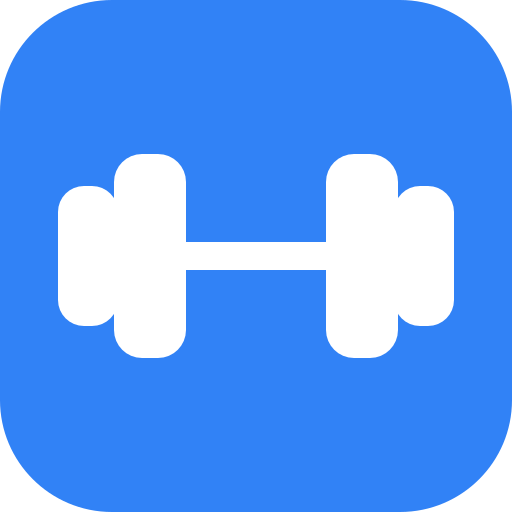
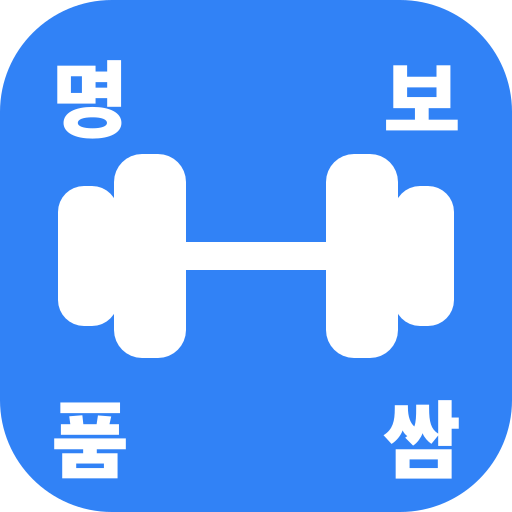
Updates

diff --git a/index.html b/index.html
@@ -5,9 +5,10 @@
     <meta name="viewport" content="width=device-width, initial-scale=1.0, viewport-fit=cover, user-scalable=no" />
     <meta name="apple-mobile-web-app-capable" content="yes" />
     <meta name="theme-color" content="#3182F6" />
-    <title>운동기록</title>
-    <script type="module" crossorigin src="./assets/index-B6FyPWnh.js"></script>
-    <link rel="stylesheet" crossorigin href="./assets/index-ChO1kA1L.css">
+    <link rel="apple-touch-icon" href="./icons/icon-192.png" />
+    <title>명품보쌈</title>
+    <script type="module" crossorigin src="./assets/index-BFiurwXG.js"></script>
+    <link rel="stylesheet" crossorigin href="./assets/index-Djyrl7zf.css">
   <link rel="manifest" href="./manifest.webmanifest"><script id="vite-plugin-pwa:register-sw" src="./registerSW.js"></script></head>
   <body>
     <div id="root"></div>

diff --git a/sw.js b/sw.js
@@ -1,1 +1,1 @@
-if(!self.define){let e,r={};const s=(s,i)=>(s=new URL(s+".js",i).href,r[s]||new Promise(r=>{if("document"in self){const e=document.createElement("script");e.src=s,e.onload=r,document.head.appendChild(e)}else e=s,importScripts(s),r()}).then(()=>{let e=r[s];if(!e)throw new Error(`Module ${s} didn’t register its module`);return e}));self.define=(i,c)=>{const b=e||("document"in self?document.currentScript.src:"")||location.href;if(r[b])return;let a={};const f=e=>s(e,b),l={module:{uri:b},exports:a,require:f};r[b]=Promise.all(i.map(e=>l[e]||f(e))).then(e=>(c(...e),a))}}define(["./workbox-9c191d2f"],function(e){"use strict";self.skipWaiting(),e.clientsClaim(),e.precacheAndRoute([{url:"registerSW.js",revision:"402b66900e731ca748771b6fc5e7a068"},{url:"index.html",revision:"99a0e421580b0783508b29d149a02116"},{url:"icons/icon-512.png",revision:"fac4b1879003a8aa3aba7f730ad1ecec"},{url:"icons/icon-192.png",revision:"1c4827fb2cbd17a41e1dff3903418b62"},{url:"exercises/upright-row.webp",revision:"ae95f07f77bef68fe0a6a91ed80f67e9"},{url:"exercises/triceps-pushdown.webp",revision:"6dc03028abbba176f6236be3484a633a"},{url:"exercises/triceps-dips.webp",revision:"6421dc4a0079bd78d1e854acd8e175af"},{url:"exercises/straight-arm-pulldown.webp",revision:"696e5fb97635552cd906f541301a26dc"},{url:"exercises/standing-calf-raise.webp",revision:"a544b79a6966480f9ec6f404e0909508"},{url:"exercises/squat.webp",revision:"9008b186f60c82240fd2c1757605ef27"},{url:"exercises/seated-leg-curl.webp",revision:"c6d4420603df84c438ea94a37ef440e6"},{url:"exercises/seated-cable-row.webp",revision:"42dd80276979bd1779d73f83175d5a29"},{url:"exercises/russian-twist.webp",revision:"558505736e4347ebfe5b2dcbe7efc01d"},{url:"exercises/romanian-deadlift.webp",revision:"30ac5e54049f56752875a04d6d799f34"},{url:"exercises/reverse-fly.webp",revision:"aea80558fe6384a0618ea98c8babf269"},{url:"exercises/pushup.webp",revision:"586faec9a055f011ed909a1587b9a648"},{url:"exercises/pullup.webp",revision:"eca5416cc28d377d030ef9f2a1f2a8c7"},{url:"exercises/preacher-curl.webp",revision:"610543566ea0a1fa4af26361ade31e82"},{url:"exercises/plank.webp",revision:"d03a64bfd8f760fa81e248bd27186e23"},{url:"exercises/pec-deck.webp",revision:"83f50b79fd467609bf045a2caaf5880f"},{url:"exercises/overhead-triceps-extension.webp",revision:"64ed36a4a3c8d80545d6245fecd0084d"},{url:"exercises/overhead-press.webp",revision:"abb8a08e4c2eebd66b3a92f89f1db0f6"},{url:"exercises/one-arm-dumbbell-row.webp",revision:"bd43f8314a5fb4b2e54ffac37ec828a5"},{url:"exercises/lying-triceps-extension.webp",revision:"bec04bdf14bad2b1e76bcc82fa504a26"},{url:"exercises/lying-leg-curl.webp",revision:"a6b7cb911eb17f2739d232204e47c521"},{url:"exercises/leg-press.webp",revision:"1c252f7f6b25786fe73ce3a5cc4ce6fd"},{url:"exercises/leg-extension.webp",revision:"0f9fbdeb561396e83fadb096fc3008d3"},{url:"exercises/lateral-raise.webp",revision:"31522414e276e9fb399afad8cd7549e6"},{url:"exercises/lat-pulldown.webp",revision:"ebb8454103102d7062b9994149e346ca"},{url:"exercises/kettlebell-swing.webp",revision:"faa7601542ac79fd757440cd828358e4"},{url:"exercises/incline-dumbbell-press.webp",revision:"38044009860aba37841330d1cc4187a5"},{url:"exercises/incline-bench-press.webp",revision:"8d9bd9435b0d9f98bbf4984284566fad"},{url:"exercises/hip-thrust.webp",revision:"3c6cf0622e6f240ea9214067f0c1e617"},{url:"exercises/hanging-leg-raise.webp",revision:"0a48bf428938c0982e4cd188ea0ddecf"},{url:"exercises/hammer-curl.webp",revision:"a21935c0b4a3b059a0427f7db7115255"},{url:"exercises/goblet-squat.webp",revision:"f339679e5afdb71427309d62297889f3"},{url:"exercises/front-squat.webp",revision:"005b1e0a07b9b3349d0f149eb02b1cde"},{url:"exercises/front-raise.webp",revision:"f6edbe3433bd8726c793e6ff41f8a4e6"},{url:"exercises/face-pull.webp",revision:"5a741e1ffca94283608f858c5489ccf3"},{url:"exercises/dumbbell-shoulder-press.webp",revision:"f23b206ff3ffd9510d00ede3d5e9bc66"},{url:"exercises/dumbbell-lunge.webp",revision:"89e7a4c77c9cf575a7459facac1ec3ac"},{url:"exercises/dumbbell-fly.webp",revision:"18245af38c1951b2d969f4187e35365e"},{url:"exercises/dumbbell-curl.webp",revision:"ccad921b62958c062acd7ed9279d6396"},{url:"exercises/dumbbell-bench-press.webp",revision:"3bd3fcedf57a22612ac6c84b1fb599a4"},{url:"exercises/deadlift.webp",revision:"b6120e27d943525991c2650731771af0"},{url:"exercises/crunch.webp",revision:"5e0afae1e7961aff0616387562181883"},{url:"exercises/concentration-curl.webp",revision:"19459b6706e9ab39ad6e72ca57aee01e"},{url:"exercises/close-grip-bench.webp",revision:"9b9a5af98a52160d9405e93abe862b22"},{url:"exercises/chinup.webp",revision:"c379cf0e4c7d3387d5b7831811d0d562"},{url:"exercises/chest-dips.webp",revision:"53e420a1b46e36cc2b270eb023d1d15c"},{url:"exercises/cable-crunch.webp",revision:"6e2d1f8edb2f990f200f5792ad03d0d0"},{url:"exercises/cable-crossover.webp",revision:"0ac148499ff6b890900d2c3e5d256218"},{url:"exercises/bench-press.webp",revision:"ce681f5e8b7799fbe8a7766a0effbdef"},{url:"exercises/barbell-shrug.webp",revision:"352c3c7ba4d0bf38047fa08477e1c686"},{url:"exercises/barbell-row.webp",revision:"95401a7ba9ff25e27e619b05ecc096fc"},{url:"exercises/barbell-lunge.webp",revision:"3d71788b56c7d3f198b2cc48b9097fe6"},{url:"exercises/barbell-curl.webp",revision:"f511cec8f09d3e4c9ed730965166a518"},{url:"exercises/arnold-press.webp",revision:"b84d85b9e80a2ab0b42d32719618ea84"},{url:"exercises/ab-rollout.webp",revision:"84ec537fa033e0e51b2236a8661f0084"},{url:"assets/index-ChO1kA1L.css",revision:null},{url:"assets/index-B6FyPWnh.js",revision:null},{url:"icons/icon-192.png",revision:"1c4827fb2cbd17a41e1dff3903418b62"},{url:"icons/icon-512.png",revision:"fac4b1879003a8aa3aba7f730ad1ecec"},{url:"manifest.webmanifest",revision:"fbc4368368f714f7eadcd039a98a8034"}],{}),e.cleanupOutdatedCaches(),e.registerRoute(new e.NavigationRoute(e.createHandlerBoundToURL("index.html")))});
+if(!self.define){let e,r={};const s=(s,i)=>(s=new URL(s+".js",i).href,r[s]||new Promise(r=>{if("document"in self){const e=document.createElement("script");e.src=s,e.onload=r,document.head.appendChild(e)}else e=s,importScripts(s),r()}).then(()=>{let e=r[s];if(!e)throw new Error(`Module ${s} didn’t register its module`);return e}));self.define=(i,c)=>{const b=e||("document"in self?document.currentScript.src:"")||location.href;if(r[b])return;let a={};const f=e=>s(e,b),l={module:{uri:b},exports:a,require:f};r[b]=Promise.all(i.map(e=>l[e]||f(e))).then(e=>(c(...e),a))}}define(["./workbox-9c191d2f"],function(e){"use strict";self.skipWaiting(),e.clientsClaim(),e.precacheAndRoute([{url:"registerSW.js",revision:"402b66900e731ca748771b6fc5e7a068"},{url:"index.html",revision:"f7c449bb31cb28ce1808e7280a3b0341"},{url:"icons/icon-512.png",revision:"ceec2884223b4f27c56f48b79eecae93"},{url:"icons/icon-192.png",revision:"78d92fa6e405e6182d43c2a29484426e"},{url:"exercises/upright-row.webp",revision:"ae95f07f77bef68fe0a6a91ed80f67e9"},{url:"exercises/triceps-pushdown.webp",revision:"6dc03028abbba176f6236be3484a633a"},{url:"exercises/triceps-dips.webp",revision:"6421dc4a0079bd78d1e854acd8e175af"},{url:"exercises/straight-arm-pulldown.webp",revision:"696e5fb97635552cd906f541301a26dc"},{url:"exercises/standing-calf-raise.webp",revision:"a544b79a6966480f9ec6f404e0909508"},{url:"exercises/squat.webp",revision:"9008b186f60c82240fd2c1757605ef27"},{url:"exercises/seated-leg-curl.webp",revision:"c6d4420603df84c438ea94a37ef440e6"},{url:"exercises/seated-cable-row.webp",revision:"42dd80276979bd1779d73f83175d5a29"},{url:"exercises/russian-twist.webp",revision:"558505736e4347ebfe5b2dcbe7efc01d"},{url:"exercises/romanian-deadlift.webp",revision:"30ac5e54049f56752875a04d6d799f34"},{url:"exercises/reverse-fly.webp",revision:"aea80558fe6384a0618ea98c8babf269"},{url:"exercises/pushup.webp",revision:"586faec9a055f011ed909a1587b9a648"},{url:"exercises/pullup.webp",revision:"eca5416cc28d377d030ef9f2a1f2a8c7"},{url:"exercises/preacher-curl.webp",revision:"610543566ea0a1fa4af26361ade31e82"},{url:"exercises/plank.webp",revision:"d03a64bfd8f760fa81e248bd27186e23"},{url:"exercises/pec-deck.webp",revision:"83f50b79fd467609bf045a2caaf5880f"},{url:"exercises/overhead-triceps-extension.webp",revision:"64ed36a4a3c8d80545d6245fecd0084d"},{url:"exercises/overhead-press.webp",revision:"abb8a08e4c2eebd66b3a92f89f1db0f6"},{url:"exercises/one-arm-dumbbell-row.webp",revision:"bd43f8314a5fb4b2e54ffac37ec828a5"},{url:"exercises/lying-triceps-extension.webp",revision:"bec04bdf14bad2b1e76bcc82fa504a26"},{url:"exercises/lying-leg-curl.webp",revision:"a6b7cb911eb17f2739d232204e47c521"},{url:"exercises/leg-press.webp",revision:"1c252f7f6b25786fe73ce3a5cc4ce6fd"},{url:"exercises/leg-extension.webp",revision:"0f9fbdeb561396e83fadb096fc3008d3"},{url:"exercises/lateral-raise.webp",revision:"31522414e276e9fb399afad8cd7549e6"},{url:"exercises/lat-pulldown.webp",revision:"ebb8454103102d7062b9994149e346ca"},{url:"exercises/kettlebell-swing.webp",revision:"faa7601542ac79fd757440cd828358e4"},{url:"exercises/incline-dumbbell-press.webp",revision:"38044009860aba37841330d1cc4187a5"},{url:"exercises/incline-bench-press.webp",revision:"8d9bd9435b0d9f98bbf4984284566fad"},{url:"exercises/hip-thrust.webp",revision:"3c6cf0622e6f240ea9214067f0c1e617"},{url:"exercises/hanging-leg-raise.webp",revision:"0a48bf428938c0982e4cd188ea0ddecf"},{url:"exercises/hammer-curl.webp",revision:"a21935c0b4a3b059a0427f7db7115255"},{url:"exercises/goblet-squat.webp",revision:"f339679e5afdb71427309d62297889f3"},{url:"exercises/front-squat.webp",revision:"005b1e0a07b9b3349d0f149eb02b1cde"},{url:"exercises/front-raise.webp",revision:"f6edbe3433bd8726c793e6ff41f8a4e6"},{url:"exercises/face-pull.webp",revision:"5a741e1ffca94283608f858c5489ccf3"},{url:"exercises/dumbbell-shoulder-press.webp",revision:"f23b206ff3ffd9510d00ede3d5e9bc66"},{url:"exercises/dumbbell-lunge.webp",revision:"89e7a4c77c9cf575a7459facac1ec3ac"},{url:"exercises/dumbbell-fly.webp",revision:"18245af38c1951b2d969f4187e35365e"},{url:"exercises/dumbbell-curl.webp",revision:"ccad921b62958c062acd7ed9279d6396"},{url:"exercises/dumbbell-bench-press.webp",revision:"3bd3fcedf57a22612ac6c84b1fb599a4"},{url:"exercises/deadlift.webp",revision:"b6120e27d943525991c2650731771af0"},{url:"exercises/crunch.webp",revision:"5e0afae1e7961aff0616387562181883"},{url:"exercises/concentration-curl.webp",revision:"19459b6706e9ab39ad6e72ca57aee01e"},{url:"exercises/close-grip-bench.webp",revision:"9b9a5af98a52160d9405e93abe862b22"},{url:"exercises/chinup.webp",revision:"c379cf0e4c7d3387d5b7831811d0d562"},{url:"exercises/chest-dips.webp",revision:"53e420a1b46e36cc2b270eb023d1d15c"},{url:"exercises/cable-crunch.webp",revision:"6e2d1f8edb2f990f200f5792ad03d0d0"},{url:"exercises/cable-crossover.webp",revision:"0ac148499ff6b890900d2c3e5d256218"},{url:"exercises/bench-press.webp",revision:"ce681f5e8b7799fbe8a7766a0effbdef"},{url:"exercises/barbell-shrug.webp",revision:"352c3c7ba4d0bf38047fa08477e1c686"},{url:"exercises/barbell-row.webp",revision:"95401a7ba9ff25e27e619b05ecc096fc"},{url:"exercises/barbell-lunge.webp",revision:"3d71788b56c7d3f198b2cc48b9097fe6"},{url:"exercises/barbell-curl.webp",revision:"f511cec8f09d3e4c9ed730965166a518"},{url:"exercises/arnold-press.webp",revision:"b84d85b9e80a2ab0b42d32719618ea84"},{url:"exercises/ab-rollout.webp",revision:"84ec537fa033e0e51b2236a8661f0084"},{url:"assets/index-Djyrl7zf.css",revision:null},{url:"assets/index-BFiurwXG.js",revision:null},{url:"icons/icon-192.png",revision:"78d92fa6e405e6182d43c2a29484426e"},{url:"icons/icon-512.png",revision:"ceec2884223b4f27c56f48b79eecae93"},{url:"manifest.webmanifest",revision:"0551c4013f2f731d113cd01d00611734"}],{}),e.cleanupOutdatedCaches(),e.registerRoute(new e.NavigationRoute(e.createHandlerBoundToURL("index.html")))});

diff --git a/assets/index-Djyrl7zf.css b/assets/index-Djyrl7zf.css
@@ -1,0 +1,1 @@
+:root{--blue: #3182f6;--blue-bg: #ebf3fe;--navy: #191f28;--gray-9: #191f28;--gray-7: #4e5968;--gray-5: #8b95a1;--gray-3: #d1d6db;--gray-2: #e5e8eb;--gray-1: #f2f4f6;--green: #00a86b;--green-bg: #e8f7f0;--red: #f04452;--radius: 16px}*{box-sizing:border-box;margin:0;padding:0}html,body{height:100%}body{font-family:-apple-system,BlinkMacSystemFont,Apple SD Gothic Neo,Pretendard,sans-serif;background:var(--gray-1);color:var(--gray-9);-webkit-tap-highlight-color:transparent}#root{height:100%}button{font:inherit;border:none;background:none;cursor:pointer;color:inherit}input,select{font:inherit}.app{max-width:480px;margin:0 auto;min-height:100dvh;display:flex;flex-direction:column}.screen{flex:1;padding:16px 16px 90px;display:flex;flex-direction:column;gap:14px}.screen-title{font-size:22px;font-weight:800;letter-spacing:-.5px;padding-top:8px}.card{background:#fff;border-radius:var(--radius);padding:16px;box-shadow:0 1px 4px #191f280f}.card-h{font-size:13px;font-weight:800;color:var(--gray-7);margin-bottom:10px}.btn{display:block;width:100%;text-align:center;padding:14px;border-radius:14px;font-size:15px;font-weight:800}.btn-primary{background:var(--blue);color:#fff}.btn-ghost{background:var(--gray-1);color:var(--gray-7)}.btn-danger{background:#fee;color:var(--red)}.btn-row{display:flex;gap:8px}.btn-row .btn{flex:1}.btn-sm{display:inline-block;width:auto;padding:8px 14px;font-size:13px;border-radius:10px}.tag{font-size:11px;font-weight:600;color:var(--blue);background:var(--blue-bg);border-radius:6px;padding:3px 8px}.last-pill{display:inline-flex;align-items:center;gap:6px;font-size:12px;font-weight:700;color:var(--green);background:var(--green-bg);border-radius:8px;padding:6px 10px}.tabbar{position:fixed;bottom:0;left:0;right:0;max-width:480px;margin:0 auto;display:flex;background:#fff;border-top:1px solid var(--gray-1);padding:8px 0 max(20px,env(safe-area-inset-bottom));z-index:10}.tabbar a{flex:1;text-align:center;font-size:10.5px;font-weight:700;color:#b0b8c1;text-decoration:none}.tabbar a.active{color:var(--gray-9)}.tabbar .ic{font-size:20px;display:block;margin-bottom:3px}.startcard{background:linear-gradient(135deg,#3182f6,#4f46e5);border-radius:20px;padding:18px;color:#fff}.startcard .t{font-size:17px;font-weight:800}.startcard .s{font-size:12.5px;opacity:.85;margin-top:4px}.startcard .go{margin-top:14px;background:#fff;color:var(--blue);border-radius:12px;text-align:center;padding:11px;font-size:14px;font-weight:800;width:100%}.weekrow{display:flex;justify-content:space-between}.day{text-align:center;font-size:11px;color:var(--gray-5);font-weight:600}.day .dot{width:32px;height:32px;border-radius:50%;margin:6px auto 0;background:var(--gray-1);display:flex;align-items:center;justify-content:center;font-size:13px;font-weight:700;color:#b0b8c1}.day .dot.on{background:var(--blue);color:#fff}.day .dot.today{border:2px solid var(--blue);color:var(--blue);background:#fff}.cal-head{display:flex;justify-content:space-between;align-items:center;font-size:14px;font-weight:800;margin-bottom:10px}.cal-head button{background:none;border:none;font-size:13px;color:var(--blue);padding:4px 10px;cursor:pointer}.day button.dot{border:none;padding:0;font:inherit;font-size:13px;font-weight:700;cursor:pointer}.day .dot.sel{box-shadow:0 0 0 2px var(--blue)}.hist-row{display:flex;justify-content:space-between;align-items:center;font-size:13.5px;font-weight:600;padding:8px 0;border-bottom:1px solid var(--gray-1)}.hist-row:last-child{border-bottom:none}.hist-row .d{color:var(--gray-5);font-weight:500}.topnav{display:flex;justify-content:space-between;align-items:center;padding:10px 16px;background:#fff;position:sticky;top:0;z-index:5}.topnav .title{font-weight:700;font-size:14px}.topnav .clock{color:var(--blue);font-weight:700;font-variant-numeric:tabular-nums}.topnav button{font-size:18px;color:var(--gray-5);padding:4px}.progressbar{height:3px;background:var(--gray-2)}.progressbar>div{height:100%;background:var(--blue);transition:width .3s}.hero-img{width:100%;height:170px;object-fit:cover;display:block;border-radius:14px;background:var(--gray-1)}.hero-icon{width:100%;height:120px;border-radius:14px;background:linear-gradient(135deg,#dbeafe,#ede9fe);display:flex;align-items:center;justify-content:center}.ex-name{font-size:19px;font-weight:800;letter-spacing:-.3px;margin-top:10px}.tags{display:flex;gap:6px;margin-top:6px}.set-head,.set-row{display:grid;grid-template-columns:32px 1fr 1fr 44px;gap:6px;align-items:center;text-align:center}.set-head{font-size:11px;color:var(--gray-5);font-weight:600}.set-row .n{font-size:13px;font-weight:700;color:var(--gray-5)}.set-row input{width:100%;background:var(--gray-1);border:none;border-radius:10px;padding:10px 0;font-size:15px;font-weight:800;text-align:center;font-variant-numeric:tabular-nums}.set-row input:focus{outline:2px solid var(--blue)}.set-row.done input{background:var(--blue-bg);color:var(--blue)}.set-row .chk{width:30px;height:30px;border-radius:9px;margin:0 auto;border:2px solid var(--gray-3);background:#fff;color:#fff;font-size:14px;font-weight:800;display:flex;align-items:center;justify-content:center}.set-row.done .chk{background:var(--blue);border-color:var(--blue)}.rest{background:var(--navy);color:#fff;border-radius:14px;padding:12px 16px;display:flex;align-items:center;gap:12px;position:sticky;bottom:90px}.rest .lbl{font-size:12px;font-weight:700;color:var(--gray-5)}.rest .time{font-size:20px;font-weight:800;font-variant-numeric:tabular-nums}.rest .bar{flex:1;height:6px;border-radius:3px;background:#333d4b;overflow:hidden}.rest .bar>div{height:100%;background:var(--blue);border-radius:3px;transition:width 1s linear}.rest .skip{font-size:12px;font-weight:700;color:var(--gray-5)}.overlay{position:fixed;top:0;right:0;bottom:0;left:0;background:var(--gray-1);z-index:20;max-width:480px;margin:0 auto;display:flex;flex-direction:column;overflow-y:auto}.search{background:#fff;border:1px solid var(--gray-2);border-radius:12px;padding:11px 14px;font-size:14px;width:100%}.chips{display:flex;gap:6px;overflow-x:auto;padding-bottom:2px}.chip{font-size:12.5px;font-weight:700;color:var(--gray-7);background:#fff;border:1px solid var(--gray-2);border-radius:999px;padding:7px 14px;white-space:nowrap}.chip.on{background:var(--navy);color:#fff;border-color:var(--navy)}.ex-row{background:#fff;border-radius:var(--radius);padding:10px;display:flex;align-items:center;gap:12px;box-shadow:0 1px 4px #191f280d;width:100%;text-align:left}.ex-row img,.ex-row .thumb-icon{width:56px;height:56px;border-radius:12px;object-fit:cover;background:linear-gradient(135deg,#dbeafe,#ede9fe);flex-shrink:0;display:flex;align-items:center;justify-content:center}.ex-row .nm{font-size:15px;font-weight:800;letter-spacing:-.3px}.ex-row .sb{font-size:12px;color:var(--gray-5);margin-top:2px}.ex-row .right{margin-left:auto;flex-shrink:0}.field{display:flex;flex-direction:column;gap:6px;margin-bottom:12px}.field label{font-size:12px;font-weight:700;color:var(--gray-7)}.field input,.field select{background:var(--gray-1);border:none;border-radius:10px;padding:11px 12px;font-size:14px;width:100%}.icon-picks{display:flex;gap:8px}.icon-pick{width:44px;height:44px;border-radius:10px;background:var(--gray-1);display:flex;align-items:center;justify-content:center;border:2px solid transparent}.icon-pick.on{border-color:var(--blue);background:var(--blue-bg)}.stepper{display:inline-flex;align-items:center;gap:10px}.stepper button{width:28px;height:28px;border-radius:8px;background:var(--gray-1);font-weight:800;font-size:16px}.stepper span{font-weight:800;min-width:20px;text-align:center}.empty{text-align:center;color:var(--gray-5);font-size:13px;padding:30px 0}